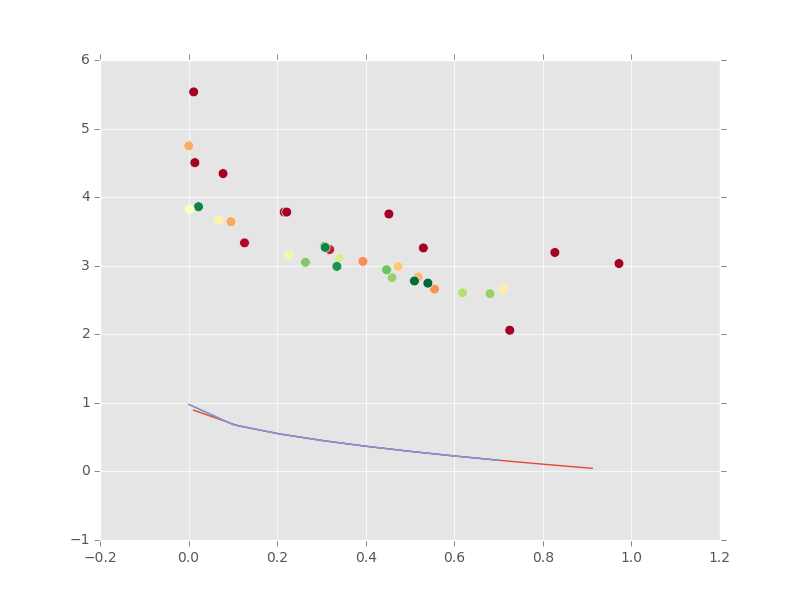
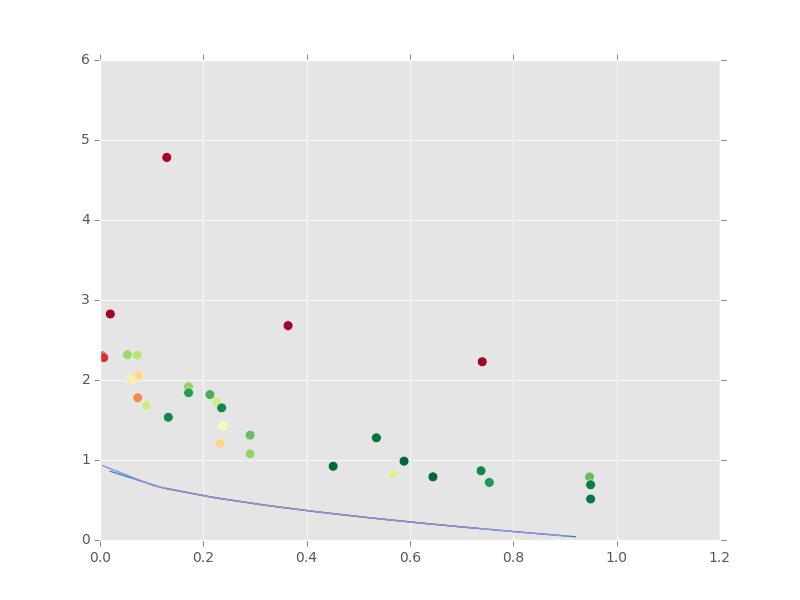
All ZDT1 changes

diff --git a/moea-d.py b/moea-d.py
@@ -57,16 +57,18 @@ for generation in range(MAXGEN):
         offsprings = parent1.crossover_operator(parent2, generation, optimization_problem)         #Genetic Operators
         offspring = offsprings[0].give_the_best_of(offsprings[1], subproblem_list[i].lam, ideal_Z)
 
-        mutated_offspring = offspring.mutation_operator2(0.1)
+        mutated_offspring = offspring.mutation_operator2(0.1, optimization_problem)
 
-        if not mutated_offspring.check_feasible(optimization_problem):
-            for i in range(3):
+        if not mutated_offspring.feasible:
+            for mc in range(3):
                 mutated_offspring = repair(mutated_offspring, offspring, optimization_problem)
                 if mutated_offspring.check_feasible(optimization_problem):
                     offspring = mutated_offspring
+                    offspring.objective_val = offspring.evaluate_solution(optimization_problem)
                     break
 
         ideal_Z = np.minimum(ideal_Z,offspring.objective_val)   # minimizing element-wise
+
         for j in subproblem_list[i].B:
             subproblem_list[j].cur_solution = subproblem_list[j].cur_solution.give_the_best_of(offspring,
                                                                                                subproblem_list[j].lam,
@@ -77,6 +79,8 @@ for generation in range(MAXGEN):
     if generation%50 == 0:
         Z1 = [es.objective_val[0] for es in EP]
         Z2 = [es.objective_val[1] for es in EP]
+        print Z1
+        print Z2
         x_vector = [es.x for es in EP]
         es_generation = [es.generation for es in EP]
         plt.scatter(Z1, Z2, c=es_generation, cmap=plt.cm.RdYlGn, s=50)
@@ -84,7 +88,7 @@ for generation in range(MAXGEN):
         plot_z1 = np.arange(min(Z1),max(Z1), 0.1)   #f1value
         plot_z2 = [1 - np.sqrt(z1val) for z1val in plot_z1]
         plt.plot(plot_z1, plot_z2)
-        plt.ylim(ymax=6)
-        plt.xlim(xmax=1.2)
+        plt.ylim(ymin=0,ymax=6)
+        plt.xlim(xmin=0,xmax=1.2)
 
         plt.savefig('generation%s.png'%generation)

diff --git a/solution.py b/solution.py
@@ -149,6 +149,10 @@ class Solution(object):
 				new_solution1.x[dimension] = solution2.x[dimension]
 				new_solution2.x[dimension] = self.x[dimension]
 
+		new_solution1.objective_val = new_solution1.evaluate_solution(optimization_problem)
+		new_solution2.objective_val = new_solution2.evaluate_solution(optimization_problem)
+		new_solution1.feasible = new_solution1.check_feasible(optimization_problem)
+		new_solution2.feasible = new_solution2.check_feasible(optimization_problem)
 		# One should never have to choose between his child..
 		#child_choice = random.choice(range(1,2))
 		#if child_choice == 1:
@@ -193,19 +197,18 @@ class Solution(object):
 
 		return evolution
 
-	def mutation_operator2(self, frequency_of_change):
+	def mutation_operator2(self, frequency_of_change, optimization_problem):
 		"""
 		Do mutation operation on a solution
 		"""
 		evolution = self
 
-		for dimension in range(0, self.n_dim - 1):
-
+		for dimension in range(0, self.n_dim):
 			if self.num_type[dimension] == 0: # Continuous
 				change = np.random.binomial(1, frequency_of_change)
 				if change == 1:
 					#print(self.x[dimension])
-					evolution.x[dimension] = self.x[dimension] + np.random.normal(0, (self.x[dimension]**2)/100)
+					evolution.x[dimension] = np.random.uniform(0, 1) #evolution.x[dimension] + np.random.normal(0, (self.x[dimension]**2)/100)#
 
 			elif self.num_type[dimension] == 1: # Binary
 				change = np.random.binomial(1, frequency_of_change)
@@ -215,6 +218,8 @@ class Solution(object):
 					elif self.x[dimension] == 0:
 						evolution.x[dimension] = 1
 
+		evolution.objective_val = evolution.evaluate_solution(optimization_problem)
+		evolution.feasible = evolution.check_feasible(optimization_problem)
 		return evolution
 
 	def repair_child_MOKP(self, w, c, lambda_sub, ideal_z):

diff --git a/utils.py b/utils.py
@@ -119,13 +119,13 @@ def add_if_not_dominated(offspring, EP, objective_sense='min'):
 			raise ValueError('Objective sense should be either "min" or "max".')
 	if not offspring_dominated_by_EP:
 		EP.append(offspring)
+		# print(offspring.objective_val)
 
 	return EP
 
 def repair(solution, previous_solution, optimization_problem):
 	fixed_solution = solution
-	repaired_solution = 0
-
+	
 	for i in len(solution.x):
 		# binary
 		if binary[i] == 1:
@@ -135,14 +135,12 @@ def repair(solution, previous_solution, optimization_problem):
 				else:
 					fixed_solution.x[i] = 1
 			if fixed_solution.solution.check_feasible(optimization_problem):
-				repaired_solution = fixed_solution
 				break
 
 		elif binary[i] == 0:
 			if solution.x[i] != previous_solution.x[i]:
 				fixed_solution.x[i] = (solution.x[i]+ fixed_solution.x[i])/2
 			if fixed_solution.solution.check_feasible(optimization_problem):
-				repaired_solution = fixed_solution
 				break
 
-	return repaired_solution
+	return fixed_solution
